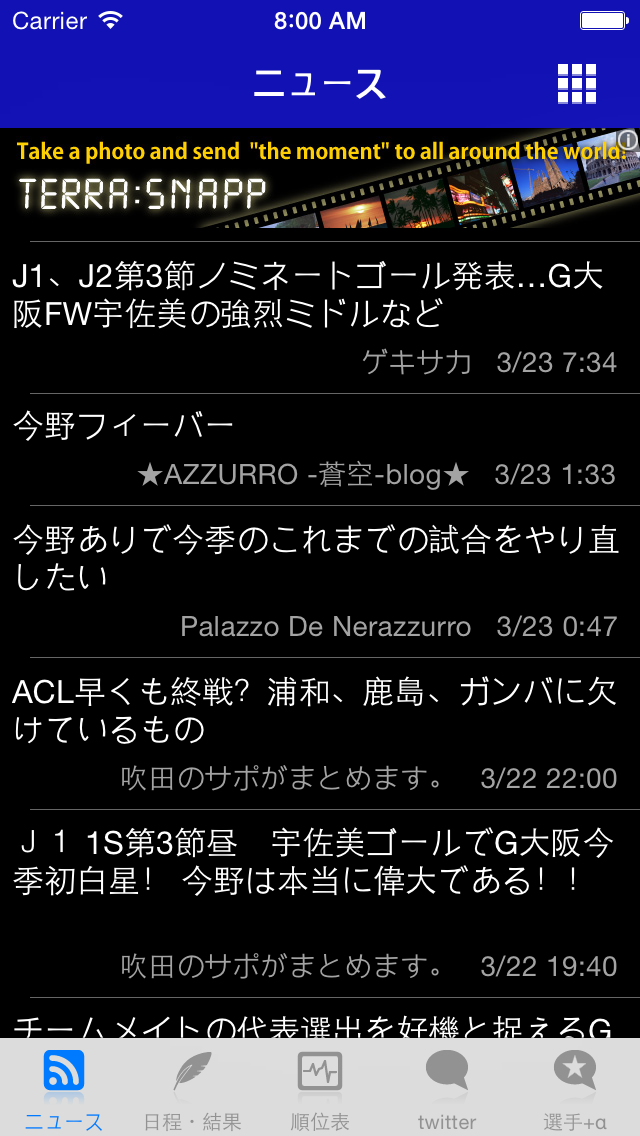
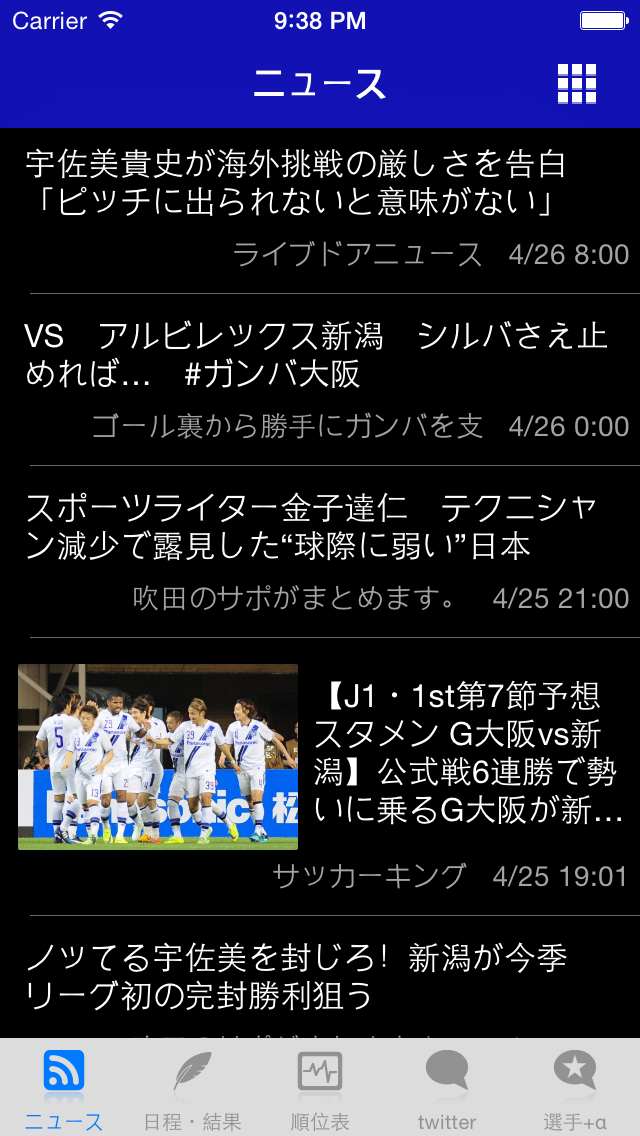
ver1.0.4
広告なしの場合のバグ修正

diff --git a/Resources/ui/handheld/NewsWindow.js b/Resources/ui/handheld/NewsWindow.js
@@ -77,25 +77,27 @@ function NewsWindow(tabGroup) {
             adView.apiKey = config.nendApiKeyIPhoneBanner;
         }
     }
-    // 2. Add Event Listener.
-    // 受信成功通知
-    adView.addEventListener('receive',function(e){
-        //Ti.API.info('icon receive');
-    });
-    // 受信エラー通知
-    adView.addEventListener('error',function(e){
-        Ti.API.info('広告受信エラー');
-        adViewContainer.setHeight(0);
-        listView.setTop(0);
-    });
-    // クリック通知
-    adView.addEventListener('click',function(e){
-        Ti.API.info('広告クリック');
-    }); 
-    
-    // 3. Add View
-    adViewContainer.add(adView);
-    self.add(adViewContainer);
+    if (adView) {
+        // 2. Add Event Listener.
+        // 受信成功通知
+        adView.addEventListener('receive',function(e){
+            //Ti.API.info('icon receive');
+        });
+        // 受信エラー通知
+        adView.addEventListener('error',function(e){
+            Ti.API.info('広告受信エラー');
+            adViewContainer.setHeight(0);
+            listView.setTop(0);
+        });
+        // クリック通知
+        adView.addEventListener('click',function(e){
+            Ti.API.info('広告クリック');
+        }); 
+        
+        // 3. Add View
+        adViewContainer.add(adView);
+        self.add(adViewContainer);
+    }
     // インジケータ
     var indicator = Ti.UI.createActivityIndicator();
     self.add(indicator);
